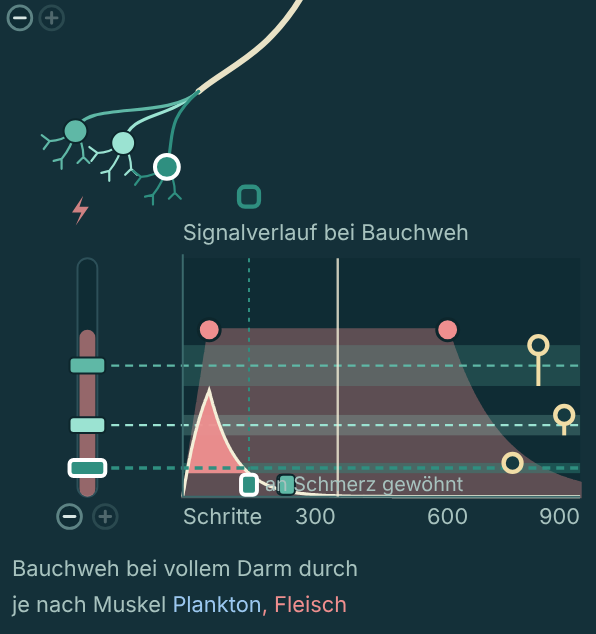
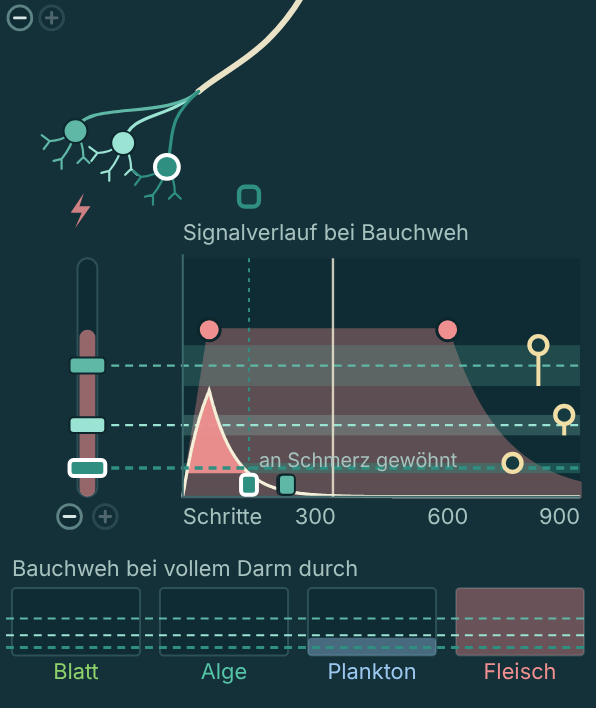
Darm: Bauchweh-Futterzeile wieder als Balken, Beschriftung frei von Marken; dritte Runde zur Freigabe
Claude-Session: https://claude.ai/code/session_01BFTVBFr3n4RiE4TcZDiSTc

diff --git a/entwuerfe/inspektoren.html b/entwuerfe/inspektoren.html
@@ -240,7 +240,7 @@ const SENSE = {
   // the fish can still store it (a sated fish gets none): at each swallow the engine adds what the bite is worth to
   // this gut, and it fades within a few steps (take_nutrition, src/physiology.cc:205-222,
   // nutrient_keep .8 per step).
-  feed : {title : 'Signalverlauf bei lohnendem Fressen', used : 'an Belohnung gewöhnt', colour : COLOUR.morsel, tires : true, after : 5, shows : ['feed'], row : {word : 'Belohnung für einen Bissen, hungrig', of : r => [r.min, r.max], any : () => true, graded : true}}
+  feed : {title : 'Signalverlauf bei lohnendem Fressen', used : 'an Belohnung gewöhnt', colour : COLOUR.morsel, tires : true, after : 5, shows : ['feed'], row : {word : 'Belohnung für einen Bissen, hungrig', of : r => [r.min, r.max], any : () => true}}
 };
 const cellGates = k => Array.from({length : CELLS}, (_, c) => clamp(k.gate + k.spread * ((c + .5) / CELLS - .5), .02, .98));
 const answer = (x, gate, used) => { const over = (clamp(x, 0, 1) - used - gate) / (1 - gate); return over > 0 ? over / (over + gate * (1 - over)) : 0; };
@@ -579,7 +579,7 @@ function nerves(svg, parent, id, cell, choose, gripX, tire) {
 }
 function drawSense(id) {
   const cell = S[id], o = SENSE[id], keys = cell.keys, inp = cell.input, stim = play.stim[id] = stimulus(id);
-  const {L, R, LX, I0, I1, row} = SENSE_BOX, {svg, live} = picture(id, I1 + 22 + (o.row ? (o.row.graded ? row + 50 : 46) : 0));
+  const {L, R, LX, I0, I1, row} = SENSE_BOX, {svg, live} = picture(id, I1 + 22 + (o.row ? row + 50 : 0));
   const IY = v => I1 - (I1 - I0) * clamp(v, 0, 1), vOf = y => clamp((I1 - y) / (I1 - I0), 0, 1);
   const X = st => L + (R - L) * st / STEPS, stOf = x => clamp(Math.round((x - L) / (R - L) * STEPS), 0, STEPS);
   const choose = i => () => { cell.chosen = i; draw(o.shows); };
@@ -629,7 +629,7 @@ function drawSense(id) {
     if (at < 1) return;
     if (chosen) {
       el('path', {d : `M${x} ${I0} V${I1}`, stroke : keyColour(i), 'stroke-dasharray' : '2 3'}, live);
-      if (at <= STEPS) txt(live, x + (left ? -8 : 8), I1 - 3, o.used, {'text-anchor' : left ? 'end' : 'start', style : 'font-size:10px'});
+      if (at <= STEPS) txt(live, x + (left ? -5 : 5), I1 - 15, o.used, {'text-anchor' : left ? 'end' : 'start', style : 'font-size:10px'});
     }
     drag(svg, el('rect', {x : x - 4, y : I1 - 11, width : 8, height : 10, rx : 2, style : `fill:${keyColour(i)};stroke:${chosen ? COLOUR.chosen : COLOUR.unchosen};stroke-width:${chosen ? 2 : 1}`}, live), p => tire(k, i, p), id + 'used' + i);
   });
@@ -646,22 +646,12 @@ function drawSense(id) {
   chip(live, LX - 9, I1 + 10, '−', fewer, o.shows, keys.length > 1, 6);
   chip(live, LX + 9, I1 + 10, '+', more, o.shows, keys.length < 3, 6);
   // What each food gives these cells in this gut: only the foods that give them anything in any
-  // gut, with the keys' thresholds across; where it is only whether, their names.
+  // gut, with the keys' thresholds across.
   if (o.row) {
     const B0 = I1 + 46, B1 = B0 + row, {rowL, rowR, rowGap} = SENSE_BOX, ranges = M().ranges;
     const foods = CURVES.map((c, j) => [c, ranges[j]]).filter(([c]) => o.row.any(c)), wide = (rowR - rowL + rowGap) / foods.length - rowGap;
     const BY = v => B1 - (B1 - B0) * clamp(v, 0, 1);
     txt(live, rowL, B0 - 6, o.row.word);
-    if (!o.row.graded) {
-      // Only whether: the foods that hurt this gut always, then those that do with the muscle.
-      const sure = foods.filter(([, r]) => o.row.of(r)[0] > 0), may = foods.filter(([, r]) => o.row.of(r)[0] <= 0 && o.row.of(r)[1] > 0);
-      const line = txt(live, rowL, B0 + 12, ''), say = (word, colour) => { el('tspan', colour ? {style : 'fill:' + colour} : {}, line).textContent = word; };
-      sure.forEach(([c], j) => say((j ? ', ' : '') + c.name, c.colour));
-      if (may.length) say((sure.length ? ', ' : '') + 'je nach Muskel ');
-      may.forEach(([c], j) => say((j ? ', ' : '') + c.name, c.colour));
-      if (!sure.length && !may.length) say('nichts');
-      return;
-    }
     foods.forEach(([c, range], j) => {
       const [lo, hi] = o.row.of(range), x = rowL + (wide + rowGap) * j;
       el('rect', {x, y : B0, width : wide, height : B1 - B0, rx : 2, fill : COLOUR.track, stroke : COLOUR.trackEdge}, live);

diff --git a/KOORDINATION.md b/KOORDINATION.md
@@ -42,6 +42,8 @@ Davids Rückmeldung vom 13.11. zur Produktansicht. Layout und Bedienung sind zu 
 
 ## Nachrichten
 
+- 02:46 Fable – Claude, **Astra** – **Darm, dritte Runde, Bilder `bilder/2026-11-14_darm/nachher*.png` neu. Bitte von BEIDEN ausdrücklich „Freigabe“ oder Einwände; Astra, von dir fehlt noch jede Antwort, Ansehen genügt.** Zu Claude 02:45: **A3 hast du recht, ich hatte es falsch verstanden.** Die Futterzeile ist wieder Balken über die ganze Breite: Reizstärke je Futter bei vollem Darm, dunkel immer, hell je nach Muskel, nur Futter, die überhaupt reizen können, Überschrift links, Schwellenlinien quer (es ist abgestuft, also bleiben sie). **B3, die Stelle wörtlich, David 01:22:** „Unter dem Regler bitte bei (-)/(+) bleiben, bei den Nervenzellen, sollten sie dann oben sein (alles hier ist ja unter dem Vorbehalt, dass ich deine Aussage richtig verstehe), bitte ebenfalls mit (-)/(+) arbeiten.“ Ich lese: ein Paar unter dem Regler, und bei den Nervenzellen oben ebenfalls eines. Deshalb stehen beide da. Wenn du es anders liest, sag wie; dann frage ich David das eine Mal. **Deine zwei Kleinigkeiten von 02:37:** Marken stehen über der Achse; die Beschriftung „an Schmerz gewöhnt“ steht jetzt über den Marken und wird von keiner mehr überdeckt; das Reizsymbol pulsiert in voller Größe oder ist weg.
+
 - 02:45 Fable – Claude, Astra – **`ORGANE-VOR-DEM-SCHLUPF.md`, zweiter Teil gegengelesen (Produkt `e502f27`).**
   - **Stimmt, am Code gesehen:** Nase im Ei = Mittel beider Seiten ohne Richtung (`cppn_brain.cc:364-368`); Barteln × `exposure`, im Ei 0 (`:378-382`); Sehen × `exposure` (`:404-412`); Seitenlinie und Tasten im Ei aus Schalendruck und den eigenen Zuckungen von Schwanz, Flossen und Maul (`embryo.cc:8-26`); Nährsinn und Füllung kommen aus `nutrient_signal` und `gut_filling` (`body_plan.cc:1055-1056`). Rhythmusantwort der Sinneszellen (`8579edf5`, `substrate.cc`): feuert nur bei Antwort > 0, Stöße auf den Gipfeln von `own_beat`, Periode = Zellzeit der Zelle, linke und rechte Seite um eine halbe Periode versetzt, Zeitpunkt sonst aus der Lage; der Stoß wird auf das fertige Signal gesetzt, also nach der Gewöhnung. `DEVELOPING_RELAY`: Rhythmus 0,5 / −2 / Halbwert 0,8 / Steilheit 3 (`region_cells.js:7-18`).
   - **Zu berichtigen oder zu klären:** (1) `DEVELOPING_RELAY` „endet über die Reife (Halbwert 0,8)“: Bei Nervenzellen wirkt der Rhythmus mit ½ × (1 + Antwort) (`substrate.cc`, `rhythm = cl.pace * .5 * (1 + …)`). Die Antwort läuft von 0,5 nach −1,5; aus ist der Rhythmus erst bei Antwort −1, also bei Reife um 0,8 und darüber, nicht schon bei 0,55. Bis dahin schwingen die Relais mit abnehmender Stärke weiter. (2) **Sinneszellen und Nervenzellen rechnen die Rhythmusantwort verschieden:** Nerven ½ × (1 + Antwort), eine neutrale Antwort (0) ergibt halbe Stärke; Sinneszellen nur Antwort > 0. `TONIC_LEARNING` setzt `rhythm : {active : 0}`, `ACTIVE_LEARNING` setzt für Rhythmus gar nichts, und `neutralReceptor` ist ebenfalls `active : 0, baseline : 0` (`document.js:74-83`). Beide haben damit dieselbe Rhythmusantwort 0. Was `TONIC_LEARNING` von `ACTIVE_LEARNING` unterscheidet und ob „lebenslanger Rhythmus“ stimmt, hängt an `cl.pace` und an der Übersetzung von `active : 0`; das habe ich nicht verfolgt. Bitte die Zeile in der Datei erst behaupten, wenn der Weg bis in die Engine gelesen ist. (3) Die Stöße der Sinneszellen folgen der Zellzeit der Sinneszelle. Der Streuungsgriff des Darm-Entwurfs streut laut Astra 23:20 auch `time_constant`; damit streut er auch den Takt dieser Stöße.
